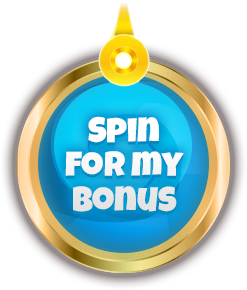
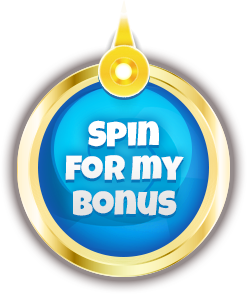
beta complete the top part

diff --git a/src/App.js b/src/App.js
@@ -1,15 +1,59 @@
 import React from 'react';
-import { Row, Col } from 'react-bootstrap';
+import styled from 'styled-components';
+import { Row, Col, Image } from 'react-bootstrap';
 import Footer from './components/Footer';
 import SpinTheWheel from './components/SpinTheWheel/';
 
+import backgroundImage from './images/background.png';
+import titleImage from './images/title.png';
+import coinsImage from './images/coins.png';
+
+const Title = styled.div`
+  position: relative;
+  z-index: 11;
+  margin-bottom: -140px;
+  text-align: center;
+
+  @media (max-width: 740px) {
+    margin-bottom: -18.5vw;
+  }
+`;
+
+const TopContainer = styled.div`
+  position: relative;
+  overflow: hidden;
+  display: flex;
+  flex-direction: column;
+  align-items: center;
+  justify-content: center;
+  min-height: 100vh;
+  padding: 2rem 0;
+  background: url(${backgroundImage}) center center / cover no-repeat;
+`;
+
+const Coins = styled.div`
+  position: absolute;
+  z-index: 0;
+  top: 0;
+  left: 0;
+  width: 100%;
+  height: 100%;
+  display: flex;
+  justify-content: center;
+  align-items: center;
+  transform: ${props => (props.visible ? 'scale(1)' : 'scale(0)')};
+  transition: 1s;
+`;
+
 class App extends React.Component {
   state = {
+    firstSpin: true,
     isSpinning: false
   };
 
   setSpinningStatus = isSpinning => {
     this.setState({
+      firstSpin: false,
       isSpinning
     });
   };
@@ -17,38 +61,24 @@ class App extends React.Component {
   render() {
     return (
       <Row noGutters>
-        <Col
-          xs={12}
-          style={{
-            position: 'relative',
-            overflow: 'hidden',
-            display: 'flex',
-            flexDirection: 'column',
-            alignItems: 'center',
-            justifyContent: 'center',
-            minHeight: '100vh',
-            background: ''
-          }}
-        >
-          <div
-            style={{
-              position: 'relative',
-              zIndex: 10,
-              marginBottom: '-100px',
-              textAlign: 'center'
-            }}
-          >
-            <h1>
-              Spin the wheel <br /> & find your fortune
-            </h1>
-            <p>get up to a 350% bonus</p>
-          </div>
-          <SpinTheWheel
-            isSpinning={this.state.isSpinning}
-            spinsAmount={1}
-            spinDuration={1}
-            setSpinningStatus={this.setSpinningStatus}
-          />
+        <Col xs={12}>
+          <TopContainer>
+            <Title>
+              <Image
+                src={titleImage}
+                alt="Spin the wheel & find your fortune"
+              />
+            </Title>
+            <SpinTheWheel
+              isSpinning={this.state.isSpinning}
+              spinsAmount={3}
+              spinDuration={3}
+              setSpinningStatus={this.setSpinningStatus}
+            />
+            <Coins visible={!this.state.isSpinning && !this.state.firstSpin}>
+              <img src={coinsImage} alt="" />
+            </Coins>
+          </TopContainer>
         </Col>
         <Col xs={12} style={{ background: 'black' }}>
           <Footer />

diff --git a/src/components/SpinTheWheel/Button.js b/src/components/SpinTheWheel/Button.js
@@ -1,5 +1,6 @@
 import styled from 'styled-components';
 import buttonImage from './images/button.png';
+import buttonImageActive from './images/button-active.png';
 
 const Button = styled.button.attrs(props => ({
   disabled: props.disabled
@@ -11,10 +12,15 @@ const Button = styled.button.attrs(props => ({
   transform: translateX(-50%) translateY(-50%);
   display: block;
   width: 247px;
-  height: 290px;
+  height: 294px;
   border: none;
   outline: none;
-  background: url(${buttonImage}) center center / cover no-repeat;
+  background-color: transparent;
+  background-image: ${props =>
+    props.disabled ? `url(${buttonImageActive})` : `url(${buttonImage})`};
+  background-position: center center;
+  background-size: cover;
+  background-repeat: no-repeat;
   box-shadow: none;
   cursor: ${props => (props.disabled ? 'not-allowed' : 'pointer')};
   &:active,
@@ -23,7 +29,7 @@ const Button = styled.button.attrs(props => ({
   }
   @media (max-width: 751px) {
     width: calc(24700vw / 751);
-    height: calc((24700vw / 751) * 290 / 247);
+    height: calc((24700vw / 751) * 294 / 247);
   }
 `;
 

diff --git a/src/components/SpinTheWheel/Wheel.js b/src/components/SpinTheWheel/Wheel.js
@@ -25,8 +25,8 @@ const Wheel = styled.div`
     spin(props.nextWheelPosition, props.currentWheelPosition)};
   animation-duration: ${props => props.spinDuration}s;
   animation-fill-mode: both;
-  /* animation-timing-function: cubic-bezier(0.27, 0.99, 1, 1.1); */
-  animation-timing-function: linear;
+  animation-timing-function: cubic-bezier(0.44, 0.14, 0.58, 1.11);
+  /* animation-timing-function: linear; */
 `;
 
 export default Wheel;

diff --git a/src/components/SpinTheWheel/Container.js b/src/components/SpinTheWheel/Container.js
@@ -2,6 +2,7 @@ import styled from 'styled-components';
 
 const Container = styled.div`
   position: relative;
+  z-index: 10;
   overflow: hidden;
   width: 751px;
   max-width: 100%;

diff --git a/src/global.css b/src/global.css
@@ -1,3 +1,11 @@
 * {
   box-sizing: border-box;
 }
+
+body {
+  background: #084f91;
+}
+
+img {
+  max-width: 100%;
+}
